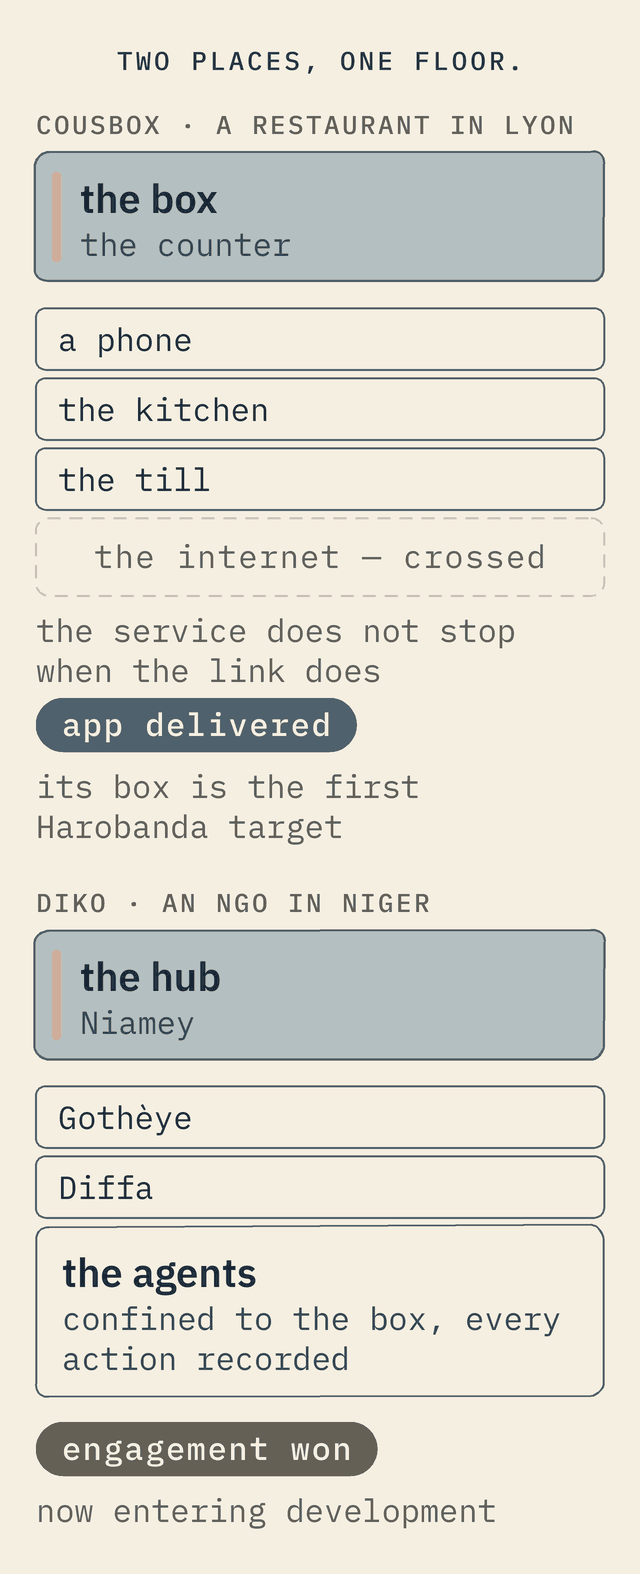
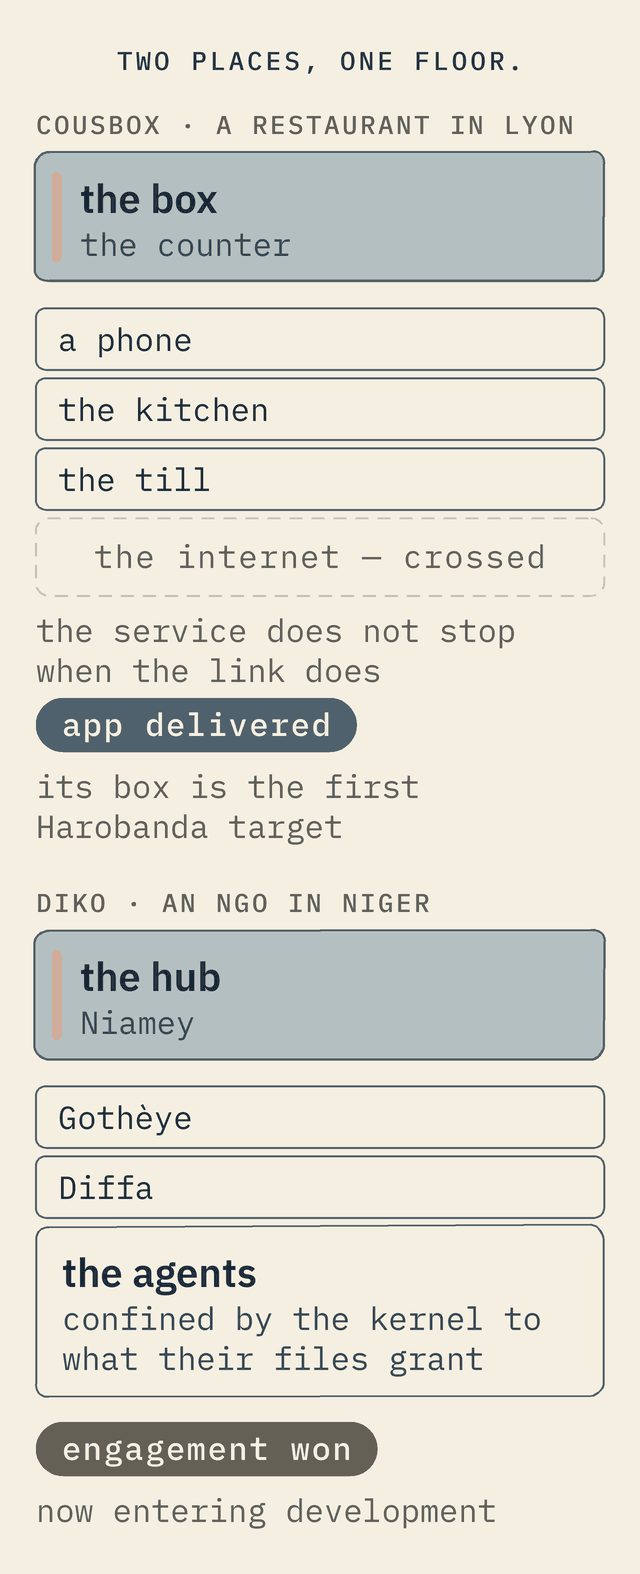
site: diagram 3 drawn again without "every exchange recorded", and no picture claims what its page stopped claiming
The hand-drawn diagram 3 labelled the assistant's envelope "every
exchange recorded", and nothing records one: the journal signs what the
machine was at each boot, and what a world does is its own record
(DOC-2). A picture can be replaced but not edited, so on the author's
word it is now drawn by site/diagrams/diagram3.py in the house style, a
PNG, with the hand drawing's words less that phrase. At the house type
sizes three boxes across fill the width, so the internet moved above the
envelope -- the way out leaves through its top edge, crossed -- and the
envelope's properties moved to its top line, where the person's arrow no
longer runs through them.

Drawing it showed DOC-2's count was wrong: diagram 3 was not the one
claim left outside the prose.
- diagram 8 still said "bit-for-bit" and diagram 10 "every action
  recorded", wide and narrow; both now say what their pages say.
- the meta descriptions of assistant.html and agents.html -- what a
  search result prints -- said "every exchange recorded" and "every act
  recorded".
- the alt text of all three diagrams described the old pictures.
Amended beside DOC-2 in experiment/PROTOCOL.md, and beside the briefs
for 8 and 10 in site/DIAGRAMS.md.

The phone variant of diagram 3 had been published with two labels wider
than their boxes ("internet — a cloud model, a ver"). narrowlib never
asked house.fit, which the wide drawings were always held to; it now
[…]

Changed region(s): [[0.0938, 0.8094, 0.5625, 0.8717], [0.5938, 0.8094, 0.75, 0.8717], [0.7812, 0.8094, 0.8438, 0.8405]]

diff --git a/site/assistant.html b/site/assistant.html
@@ -4,7 +4,7 @@
 <meta charset="utf-8">
 <meta name="viewport" content="width=device-width, initial-scale=1">
 <title>A governed assistant — Harobanda</title>
-<meta name="description" content="An assistant that answers from your own documents, with the model on the box, no route out, and every exchange recorded.">
+<meta name="description" content="An assistant that answers from your own documents, with the model on the box, no route out, and a memory and processor ceiling the kernel holds.">
 <link rel="preconnect" href="https://fonts.googleapis.com">
 <link rel="preconnect" href="https://fonts.gstatic.com" crossorigin>
 <link rel="stylesheet" href="https://fonts.googleapis.com/css2?family=Spectral:ital,wght@0,300;0,400;0,500;0,600;1,400;1,500&family=IBM+Plex+Sans:wght@400;500;600&family=IBM+Plex+Mono:wght@400;500&display=swap">
@@ -67,8 +67,8 @@
   <span class="d"> the box knows no route out"</span></pre>
       </div>
       <div class="figure">
-        <img class="diagram-img wide-only" loading="lazy" src="harobanda-diagram-3.jpg" alt="A knowledge assistant governed by Harobanda: the assistant, the on-device knowledge base and model run inside Harobanda's envelope, which has no route to the internet, holds a budget, and records every exchange" width="1376" height="768">
-        <img class="diagram-img narrow-only" loading="lazy" src="harobanda-diagram-3-narrow.png" alt="A knowledge assistant governed by Harobanda: the assistant, the on-device knowledge base and model run inside Harobanda's envelope, which has no route to the internet, holds a budget, and records every exchange" width="640" height="1034">
+        <img class="diagram-img wide-only" loading="lazy" src="harobanda-diagram-3.png" alt="A knowledge assistant governed by Harobanda: the assistant, the knowledge base it retrieves from and the model it reasons with all run on the device, inside Harobanda's envelope, budgeted on memory and CPU and confined. A person asks from outside and is answered. The internet is outside too, and the way to it is crossed: EGRESS none, no route out" width="1376" height="768">
+        <img class="diagram-img narrow-only" loading="lazy" src="harobanda-diagram-3-narrow.png" alt="A knowledge assistant governed by Harobanda: the assistant, the knowledge base it retrieves from and the model it reasons with all run on the device, inside Harobanda's envelope, budgeted on memory and CPU and confined. A person asks from outside and is answered. The internet is outside too, and the way to it is crossed: EGRESS none, no route out" width="640" height="1034">
       </div>
     </div>
     <p class="pull prose">An agent that has only what it was granted, cannot pass what it was budgeted, knows no route out of the box, and can change the machine only through a new file that is checked before it runs and tried before it is kept — <b>is an agent you can actually deploy.</b></p>

diff --git a/site/field.html b/site/field.html
@@ -52,8 +52,8 @@
       <p class="lead">The approach was not designed in the abstract. It comes from real solutions in demanding places, where the connection is not guaranteed and the data is not negotiable. Two of them stand for the rest — one an application already delivered, one an engagement just won.</p>
     </div>
     <div class="figure" style="margin-bottom:clamp(28px,4vw,44px)">
-      <img class="diagram-img wide-only" loading="lazy" src="harobanda-diagram-10.png" alt="Two different topologies. Cousbox in Lyon: one box at the counter, with a phone, the kitchen and the till around it, and a crossed link to the internet — the service does not stop when the link does; the app is delivered and its box is the first Harobanda target. Diko in Niger: a hub in Niamey with bases at Gothèye and Diffa, and the agents held inside the box, confined with every action recorded; the engagement is won and now entering development" width="1376" height="768">
-      <img class="diagram-img narrow-only" loading="lazy" src="harobanda-diagram-10-narrow.png" alt="Two different topologies. Cousbox in Lyon: one box at the counter, with a phone, the kitchen and the till around it, and a crossed link to the internet — the service does not stop when the link does; the app is delivered and its box is the first Harobanda target. Diko in Niger: a hub in Niamey with bases at Gothèye and Diffa, and the agents held inside the box, confined with every action recorded; the engagement is won and now entering development" width="640" height="1574">
+      <img class="diagram-img wide-only" loading="lazy" src="harobanda-diagram-10.png" alt="Two different topologies. Cousbox in Lyon: one box at the counter, with a phone, the kitchen and the till around it, and a crossed link to the internet — the service does not stop when the link does; the app is delivered and its box is the first Harobanda target. Diko in Niger: a hub in Niamey with bases at Gothèye and Diffa, and the agents held inside the box, confined by the kernel to what their files grant; the engagement is won and now entering development" width="1376" height="768">
+      <img class="diagram-img narrow-only" loading="lazy" src="harobanda-diagram-10-narrow.png" alt="Two different topologies. Cousbox in Lyon: one box at the counter, with a phone, the kitchen and the till around it, and a crossed link to the internet — the service does not stop when the link does; the app is delivered and its box is the first Harobanda target. Diko in Niger: a hub in Niamey with bases at Gothèye and Diffa, and the agents held inside the box, confined by the kernel to what their files grant; the engagement is won and now entering development" width="640" height="1574">
     </div>
     <div class="grid2">
       <div class="card kind">

diff --git a/site/enterprise.html b/site/enterprise.html
@@ -43,8 +43,8 @@
       <p class="lead">Adopting an operating system is an enterprise decision, and three questions decide it. Each answer follows from the same design — and where an answer is still a direction rather than a fact today, this site says so.</p>
     </div>
     <div class="figure" style="margin-bottom:clamp(28px,4vw,44px)">
-      <img class="diagram-img wide-only" loading="lazy" src="harobanda-diagram-8.png" alt="One declaration deriving three identical boxes, each carrying its own distinct key — KEY1, KEY2, KEY3 — with the cloud drawn beside them at the same altitude and joined by a link of equal weight at both ends: a peer, not a parent. Two claims beneath it: no snowflakes, every box derived from one file, bit-for-bit; and evidence, checked by anyone who never held the secret" width="1376" height="768">
-      <img class="diagram-img narrow-only" loading="lazy" src="harobanda-diagram-8-narrow.png" alt="One declaration deriving three identical boxes, each carrying its own distinct key — KEY1, KEY2, KEY3 — with the cloud drawn beside them at the same altitude and joined by a link of equal weight at both ends: a peer, not a parent. Two claims beneath it: no snowflakes, every box derived from one file, bit-for-bit; and evidence, checked by anyone who never held the secret" width="640" height="1338">
+      <img class="diagram-img wide-only" loading="lazy" src="harobanda-diagram-8.png" alt="One declaration deriving three identical boxes, each carrying its own distinct key — KEY1, KEY2, KEY3 — with the cloud drawn beside them at the same altitude and joined by a link of equal weight at both ends: a peer, not a parent. Two claims beneath it: no snowflakes, every box derived from one file; and evidence, checked by anyone who never held the secret" width="1376" height="768">
+      <img class="diagram-img narrow-only" loading="lazy" src="harobanda-diagram-8-narrow.png" alt="One declaration deriving three identical boxes, each carrying its own distinct key — KEY1, KEY2, KEY3 — with the cloud drawn beside them at the same altitude and joined by a link of equal weight at both ends: a peer, not a parent. Two claims beneath it: no snowflakes, every box derived from one file; and evidence, checked by anyone who never held the secret" width="640" height="1338">
     </div>
     <div class="trio">
       <div class="card">

diff --git a/site/agents.html b/site/agents.html
@@ -4,7 +4,7 @@
 <meta charset="utf-8">
 <meta name="viewport" content="width=device-width, initial-scale=1">
 <title>The agent floor — Harobanda</title>
-<meta name="description" content="An AI agent runs inside the same declared envelope as everything else: only what it was granted, never past its budget, and every act recorded.">
+<meta name="description" content="An AI agent runs inside the same declared envelope as everything else: only what it was granted, never past its budget, and no route out.">
 <link rel="preconnect" href="https://fonts.googleapis.com">
 <link rel="preconnect" href="https://fonts.gstatic.com" crossorigin>
 <link rel="stylesheet" href="https://fonts.googleapis.com/css2?family=Spectral:ital,wght@0,300;0,400;0,500;0,600;1,400;1,500&family=IBM+Plex+Sans:wght@400;500;600&family=IBM+Plex+Mono:wght@400;500&display=swap">

diff --git a/site/diagrams/diagram3.py b/site/diagrams/diagram3.py
@@ -1,0 +1,110 @@
+"""Diagram 3 -- the governed envelope.  (assistant.html)
+
+A REDRAW, in the house style, of the hand-drawn diagram 3, which could be
+replaced but not edited. It labelled the envelope "every exchange recorded",
+and nothing records an exchange: the machine's journal signs what the
+machine WAS at each boot (JRN-1), and what a world does is that world's own
+record to keep. The page's prose said so from 2026-09-27 (DOC-2); the
+picture went on saying the opposite until the author asked for this one.
+
+The words are the hand drawing's, less that phrase. The arrangement is not.
+Its type was smaller than the scale diagrams 4-10 were calibrated to, and at
+READ and TITLE three boxes across fill the width, leaving no room beside the
+envelope for the internet. So the internet moved ABOVE it, and the way out
+leaves through the envelope's top edge, crossed. The envelope's properties
+moved to its top line, because in the hand drawing the person's arrow ran
+straight through them.
+
+    python site/diagrams/diagram3.py
+"""
+from house import (W, S, canvas, save, band, dashed, rule, rr_path, fit,
+                   link_peer, sans, mono, text, ls_text, centre_ls,
+                   READ, TITLE, KICKER,
+                   INK, MUTED, OLD_LINE, OLD_TEXT,
+                   NEW_FILL, NEW_LINE, NEW_TEXT, NEW_SUB, ORANGE, BRICK,
+                   BG, HAIR)
+
+img, d = canvas(3)
+
+ML = MR = 68
+f_read, f_readm = mono(READ), mono(READ, "Medium")
+f_title, f_head = sans(TITLE, "SemiBold"), sans(READ, "SemiBold")
+f_kick = mono(KICKER, "Medium")
+
+# ---- the way out: an absence above the envelope, reached by a crossed line ----
+IX, IY, IW, IH = 810, 40, 498.0, 108.0
+dashed(d, rr_path(IX*S, IY*S, (IX+IW)*S, (IY+IH)*S, 13*S), OLD_LINE, int(2.0*S))
+text(d, IX + 28, IY + 36, fit(f_head, "the internet", IW - 56, "internet"),
+     f_head, OLD_TEXT)
+text(d, IX + 28, IY + 76, fit(f_read, "a cloud model, a vendor", IW - 56, "internet sub"),
+     f_read, MUTED)
+
+ls_text(d, ML*S, (IY + 46)*S, "HAROBANDA — THE GOVERNED ENVELOPE", f_kick, INK, 2.4)
+
+EX, EY, EW, EH = ML, 252, W - ML - MR, 288.0
+CX = IX + IW/2                        # the way out, straight down from the absence
+rule(d, CX, IY + IH, CX, EY, HAIR, 2.0)
+cy = (IY + IH + EY) / 2
+for k in (-1, 1):
+    d.line([((CX-13)*S, (cy - k*13)*S), ((CX+13)*S, (cy + k*13)*S)],
+           fill=BRICK, width=int(3.0*S))
+text(d, CX - 30, cy, fit(f_readm, "EGRESS none — no route out", CX - 30 - ML, "egress"),
+     f_readm, BRICK, anchor="rm")
+
+# ---- the envelope, and what it holds ----
+band(d, EX, EY, EW, EH, 16, BG, NEW_LINE, lw=2.8, amp=1.2)
+PAD = 34
+text(d, EX + PAD, EY + 46,
+     fit(f_readm, "budgeted (memory · CPU) · confined", EW - 2*PAD, "properties"),
+     f_readm, NEW_LINE)
+
+KB_W, AS_W, MD_W = 297.0, 281.0, 229.0
+LINK = (EW - 2*PAD - KB_W - AS_W - MD_W) / 2
+KB_X = EX + PAD
+AS_X = KB_X + KB_W + LINK
+MD_X = AS_X + AS_W + LINK
+RY = EY + 166                         # the row's centre line
+SH, AH = 110.0, 130.0                 # the assistant stands taller than its two
+
+
+def side(x, w, title, sub):
+    """A thing the assistant uses: on the device, inside the same envelope."""
+    y = RY - SH/2
+    band(d, x, y, w, SH, 13, BG, NEW_LINE, lw=2.2, amp=1.0)
+    text(d, x + 28, y + 40, fit(f_head, title, w - 56, "side"), f_head, NEW_TEXT)
+    text(d, x + 28, y + 78, fit(f_read, sub, w - 56, "side sub"), f_read, NEW_SUB)
+
+
+side(KB_X, KB_W, "knowledge base", "on device")
+side(MD_X, MD_W, "model", "on device")
+
+ay = RY - AH/2
+band(d, AS_X, ay, AS_W, AH, 13, NEW_FILL, NEW_LINE, lw=2.6, amp=1.0)
+d.polygon(rr_path((AS_X+16)*S, (ay+24)*S, (AS_X+25)*S, (ay+AH-24)*S, 4*S), fill=ORANGE)
+text(d, AS_X + 42, ay + 48, fit(f_title, "assistant", AS_W - 66, "assistant"),
+     f_title, NEW_TEXT)
+text(d, AS_X + 42, ay + 94, fit(f_read, "Softanza AI", AS_W - 66, "assistant sub"),
+     f_read, NEW_SUB)
+
+for x0, label in ((KB_X + KB_W, "retrieve"), (AS_X + AS_W, "reason")):
+    link_peer(d, x0 + 4, x0 + LINK - 4, RY)
+    centre_ls(d, x0 + LINK/2, RY - 20, fit(f_read, label, LINK - 20, "link"),
+              f_read, MUTED, 0)
+
+# ---- the person, outside, and the one way in ----
+AX = AS_X + AS_W/2
+PW, PH, PY = 298.0, 56.0, 652
+pts = rr_path((AX - PW/2)*S, PY*S, (AX + PW/2)*S, (PY+PH)*S, (PH/2)*S)
+d.polygon(pts, fill=BG)
+d.line(pts + [pts[0]], fill=NEW_LINE, width=int(1.8*S), joint="curve")
+text(d, AX, PY + PH/2, fit(f_read, "a person asks", PW - 40, "pill"), f_read, NEW_TEXT,
+     anchor="mm")
+
+top = ay + AH                          # an arrow UP: the person asks, into the box
+rule(d, AX, PY, AX, top + 2, HAIR, 2.4)
+w = int(2.4*S)
+d.line([((AX-9)*S, (top+11)*S), (AX*S, (top+2)*S)], fill=HAIR, width=w)
+d.line([(AX*S, (top+2)*S), ((AX+9)*S, (top+11)*S)], fill=HAIR, width=w)
+text(d, AX + 22, (EY + EH + PY) / 2, "asks · answers", f_read, MUTED)
+
+print("wrote", save(img, "harobanda-diagram-3.png"))

diff --git a/site/diagrams/narrowlib.py b/site/diagrams/narrowlib.py
@@ -11,9 +11,14 @@ two columns set against each other. On a phone a diagram becomes a labelled
 SEQUENCE instead. What does survive is every fact: if something earned its
 place in the wide drawing, it earns its place here, or it should not have
 been in the wide one either.
+
+A label that is not wrapped is FITTED: `house.fit` refuses one wider than
+the item that holds it, as it does for the wide drawings. Until 2026-09-28
+it was not asked here, and diagram 3's phone variant was published with
+"the internet" cut to "internet" at the canvas edge.
 """
 from PIL import Image
-from house import (S, OUT, canvas, band, dashed, rr_path, chip, arrow_down,
+from house import (S, OUT, canvas, band, dashed, rr_path, chip, arrow_down, fit,
                    sans, mono, text, ls_text, centre_ls, ls_w,
                    READ, TITLE, KICKER,
                    INK, MUTED, OLD_FILL, OLD_LINE, OLD_TEXT,
@@ -75,6 +80,7 @@ class Col:
 
     def kicker(self, s, colour=MUTED):
         f = mono(KICKER, "Medium")
+        fit(f, s, INNER, "kicker", 2.4)
 
         def fn(d, y):
             ls_text(d, M * S, (y + 30) * S, s, f, colour, 2.4)
@@ -92,6 +98,7 @@ class Col:
     def bar(self, label, style="plain", empty=False, accent=False):
         fill, line, ink, _, lw = STYLES[style]
         f = mono(READ)
+        fit(f, label, INNER - (40 if accent else 22) - 22, "bar")
 
         def fn(d, y):
             pts = rr_path(M * S, y * S, (NW - M) * S, (y + 62) * S, 10 * S)
@@ -109,6 +116,7 @@ class Col:
     def box(self, title, sub=None, style="machine", accent=False):
         fill, line, ink, subink, lw = STYLES[style]
         ft, fs = sans(TITLE, "SemiBold"), mono(READ)
+        fit(ft, title, INNER - (44 if accent else 26) - 26, "box title")
         subs = wrap(fs, sub, INNER - 52) if sub else []
         h = 34 + 44 + len(subs) * 40 + 24
 
@@ -123,17 +131,23 @@ class Col:
                 text(d, tx, y + 92 + i * 40, ln, fs, subink)
         self._push(h + 14, fn)
 
-    def absence(self, label):
+    def absence(self, label, sub=None):
         f = mono(READ)
+        for s in filter(None, (label, sub)):
+            fit(f, s, INNER - 52, "absence", 1.4)
+        h = 78 + (40 if sub else 0)
 
         def fn(d, y):
-            dashed(d, rr_path(M * S, y * S, (NW - M) * S, (y + 78) * S, 13 * S),
+            dashed(d, rr_path(M * S, y * S, (NW - M) * S, (y + h) * S, 13 * S),
                    OLD_LINE, int(2.0 * S))
             centre_ls(d, NW / 2, y + 50, label, f, MUTED, 1.4)
-        self._push(90, fn)
+            if sub:
+                centre_ls(d, NW / 2, y + 90, sub, f, MUTED, 1.4)
+        self._push(h + 12, fn)
 
     def chipline(self, label, fill=NEW_LINE):
         f = mono(READ, "Medium")
+        fit(f, label, INNER - 52, "chip", 1.6)
         w = ls_w(f, label, 1.6) / S + 52
 
         def fn(d, y):
@@ -147,6 +161,7 @@ class Col:
 
     def strip(self, label, note):
         f1, f2 = mono(READ, "Medium"), mono(READ)
+        fit(f1, label, INNER - 52, "strip")
         lines = wrap(f2, note, INNER - 52)
         h = 24 + 42 + len(lines) * 40 + 20
 
@@ -161,6 +176,8 @@ class Col:
         """A declaration. Code is the one thing the type rule lets sit below READ."""
         fill, line, ink, _, lw = STYLES[style]
         f = mono(28)
+        for ln in lines:
+            fit(f, ln, INNER - 60, "code")
         h = 26 + len(lines) * 40 + 24
 
         def fn(d, y):

diff --git a/site/diagrams/narrow3.py b/site/diagrams/narrow3.py
@@ -1,10 +1,17 @@
-"""Diagram 3, narrow. NOTE: a redraw of the hand-authored wide diagram 3, in
-the house style. See narrow1.py for why, and for how to drop it.
+"""Diagram 3, narrow.
 
-The wide one draws the envelope as a box with the assistant inside it and
-the internet crossed off to one side. A column has no inside, so containment
-becomes order and wording: what sits in the envelope is listed under it, and
-the way out is drawn as an absence at the end.
+The wide one (diagram3.py) draws the envelope as a box with the assistant
+inside it and the internet crossed off above it. A column has no inside, so
+containment becomes order and wording: what sits in the envelope is listed
+under it, and the way out is drawn as an absence at the end.
+
+Neither says "every exchange recorded" any more, and the narrow one said it
+too: nothing records an exchange. The journal signs what the machine was at
+each boot; what a world does is that world's own record (DOC-2).
+
+Two of its labels were wider than their boxes, and published so: the phone
+read "internet — a cloud model, a ver", cut at both edges. narrowlib now
+refuses that, and the words are the wide drawing's, which fit.
 
     python site/diagrams/narrow3.py
 """
@@ -17,12 +24,12 @@ c.gap(8)
 c.box("a person asks", "asks, and is answered", "plain")
 c.arrow()
 c.kicker("INSIDE THE ENVELOPE", NEW_LINE)
-c.box("the assistant", "Softanza AI", "machine", accent=True)
-c.bar("the knowledge base — on device", "plain")
-c.bar("the model — on device", "plain")
-c.note("budgeted on memory and CPU, confined, and every exchange recorded")
+c.box("assistant", "Softanza AI", "machine", accent=True)
+c.bar("knowledge base — on device", "plain")
+c.bar("model — on device", "plain")
+c.note("budgeted on memory and CPU, and confined")
 c.gap(24)
 
-c.absence("the internet — a cloud model, a vendor")
+c.absence("the internet", "a cloud model, a vendor")
 c.note("EGRESS none — no route out", BRICK, medium=True)
 c.render("harobanda-diagram-3-narrow.png")

diff --git a/site/diagrams/diagram10.py b/site/diagrams/diagram10.py
@@ -89,8 +89,11 @@ band(d, RX, LOW_Y, BOX_W, LOW_H, 13, BG, NEW_LINE, lw=2.4, amp=1.0)
 text(d, RX + 26, LOW_Y + LOW_H/2, fit(f_title, "the agents", BOX_W - 52, "agents"),
      f_title, NEW_TEXT)
 
-text(d, RX, 500, fit(f_read, "agents confined to the box", CW, "R cap1"), f_read, MUTED)
-text(d, RX, 538, fit(f_read, "every action recorded", CW, "R cap2"), f_read, MUTED)
+# Worded as the page words it. "every action recorded" stood here until
+# 2026-09-28, and nothing records an agent's actions: the journal signs what
+# the machine was at each boot (DOC-2).
+text(d, RX, 500, fit(f_read, "agents confined by the kernel", CW, "R cap1"), f_read, MUTED)
+text(d, RX, 538, fit(f_read, "to what their files grant", CW, "R cap2"), f_read, MUTED)
 
 # ---- what each one honestly is today ----
 chip(d, LX, 572, 318, 48, "app delivered", f_readm, NEW_LINE)

diff --git a/site/diagrams/house.py b/site/diagrams/house.py
@@ -54,9 +54,11 @@ TITLE  = 40   # a primary label
 KICKER = 26   # an uppercase mono label, letterspaced
 
 
-def fit(font, s, max_w, where):
-    """A label wider than its box is a defect, not a rendering detail."""
-    w = font.getlength(s) / S
+def fit(font, s, max_w, where, ls=0.0):
+    """A label wider than its box is a defect, not a rendering detail.
+
+    `ls` is the letterspacing the label is drawn with, which widens it."""
+    w = (ls_w(font, s, ls) if ls else font.getlength(s)) / S
     if w > max_w:
         raise SystemExit("OVERFLOW in %s: %r needs %.0fpx, has %.0f" % (where, s, w, max_w))
     return s

diff --git a/site/diagrams/diagram8.py b/site/diagrams/diagram8.py
@@ -74,8 +74,10 @@ text(d, CLOUD_X + CLOUD_W/2, CLOUD_Y + 82,
 
 # ---- the two claims, stated once each ----
 SW = W - ML - MR
+# "bit-for-bit" ended the first strip until 2026-09-28. No build fixes the
+# kernel's build timestamp, so two builds of one file differ (DOC-2).
 for y, left, right in [
-    (506, "no snowflakes", "every box derived from one file, bit-for-bit"),
+    (506, "no snowflakes", "every box derived from one file"),
     (598, "evidence",      "checked by anyone who never held the secret"),
 ]:
     band(d, ML, y, SW, 78, 13, KERN_FILL, KERN_LINE, lw=2.0, amp=0.8)

diff --git a/site/diagrams/narrow10.py b/site/diagrams/narrow10.py
@@ -31,7 +31,7 @@ c.kicker("DIKO · AN NGO IN NIGER")
 c.box("the hub", "Niamey", "machine", accent=True)
 c.bar("Gothèye", "plain")
 c.bar("Diffa", "plain")
-c.box("the agents", "confined to the box, every action recorded", "plain")
+c.box("the agents", "confined by the kernel to what their files grant", "plain")
 c.chipline("engagement won", MUTED)
 c.note("now entering development")
 c.render("harobanda-diagram-10-narrow.png")

diff --git a/site/diagrams/narrow8.py b/site/diagrams/narrow8.py
@@ -24,6 +24,6 @@ c.kicker("AND THE CLOUD YOU RUN")
 c.box("your cloud", "a peer, not a parent. not above them, not under them.", "old")
 c.gap(18)
 
-c.strip("no snowflakes", "every box derived from one file, bit-for-bit")
+c.strip("no snowflakes", "every box derived from one file")
 c.strip("evidence", "checked by anyone who never held the secret")
 c.render("harobanda-diagram-8-narrow.png")
